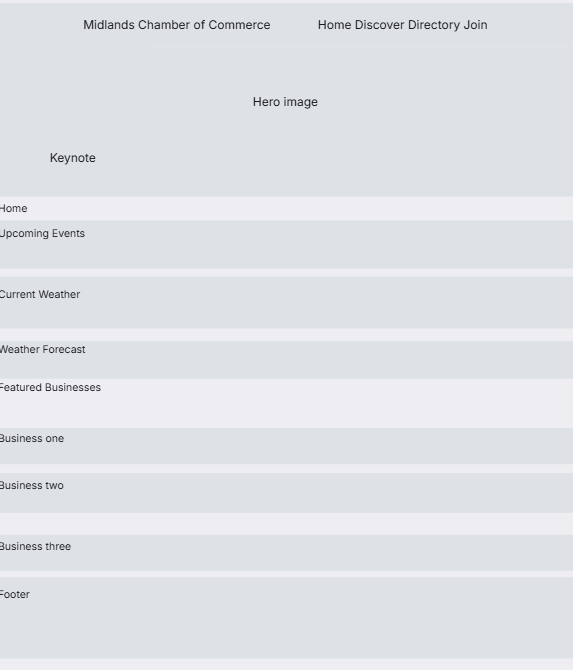
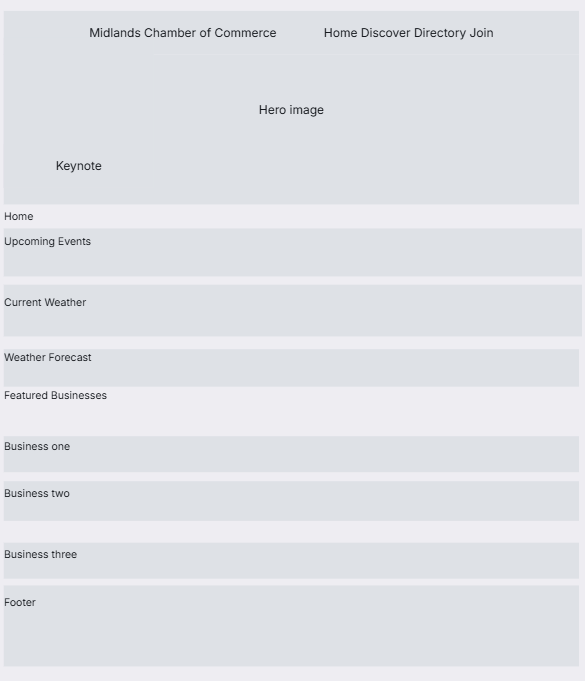
made some changes

diff --git a/project/siteplan.html b/project/siteplan.html
@@ -1,13 +1,17 @@
 <!DOCTYPE html>
 <html lang="en">
 <head>
-  <meta charset="UTF-8" />
-  <meta name="viewport" content="width=device-width, initial-scale=1.0" />
+  <meta charset="UTF-8">
+  <meta name="viewport" content="width=device-width, initial-scale=1.0" >
+  <meta name="description" content="Siteplan document outlining how the webpage will look like.">
+    <meta name="author" content="Blessing Mpofu, student of WDD131 - Dynamic Web Fundamentals at BYU-Idaho">
   <title>Website Planning Document</title>
   <link rel="stylesheet" href="styles/normalize.css">
   <link rel="stylesheet" href="styles/siteplan-small.css" media="screen and (max-width: 600px)">
   <link rel="stylesheet" href="styles/siteplan.css" media="screen and (min-width: 601px)">
-  <link href="https://fonts.googleapis.com/css2?family=Montserrat:wght@700&family=Open+Sans&display=swap" rel="stylesheet" />
+  <link href="https://fonts.googleapis.com/css2?family=Montserrat:wght@700&family=Open+Sans&display=swap" rel="stylesheet">
+  <link rel="icon" href="../images/black-bull.ico">
+  <script src="../scripts/getdates.js" defer></script>
 </head>
 <body>
   <h1>WDD 131: Website Planning Document</h1>
@@ -63,5 +67,9 @@
       </div>
     </div>
   </section>
+  <footer>
+    <p>&copy; <span id="currentyear"></span> Blessing Mpofu, Siteplan Document</p>
+        <p id="lastmodified"></p>
+  </footer>
 </body>
 </html>

diff --git a/project/styles/siteplan-small.css b/project/styles/siteplan-small.css
@@ -1,4 +1,63 @@
-.wireframe{
-    display:list-item;
+:root {
+    --primary-color: #0a3d62;
+    --secondary-color: #3c6382;
+    --accent-color: #1b4f72;
+    --background-color: #f5f6fa;
+    --text-color: #2f3640;
+    --highlight-color: #d9d9ec;
+    --header-font: 'Montserrat', sans-serif;
+    --body-font: 'Open Sans', sans-serif;
+}
+
+body {
+    margin: 0;
+    position: relative;
+    overflow-x: hidden;
+    font-family: var(--body-font);
+    padding: 2rem;
+    background-color: var(--background-color);
+    color: var(--text-color);
+}
+
+h1, h2 {
+    color: var(--primary-color);
+    font-family: var(--header-font);
+}
+
+section {
+    margin-bottom: 2rem;
+    padding: 1rem;
+    background-color: var(--highlight-color);
+    border-left: 4px solid var(--primary-color);
+}
+
+.wireframe {
+    display: list-item;
     padding: 10px;
+}
+
+img {
+    max-width: 100%;
+    height: auto;
+    display: block;
+    margin: 0 auto;
+}
+
+.container {
+    display: flex;
+    flex-direction: column;
+    align-items: center;
+}
+ section {
+        padding: 0.5rem;
+    }
+
+    h1, h2 {
+        font-size: 1.5rem;
+    }
+footer{
+    background-color: var(--primary-color);
+    padding: 10px;
+    color: var(--background-color);
+    text-align: center;
 }

diff --git a/project/styles/siteplan.css b/project/styles/siteplan.css
@@ -40,3 +40,9 @@
       max-width: 100%;
       border: 2px solid var(--accent-color);
     }
+    footer{
+    background-color: var(--primary-color);
+    padding: 10px;
+    color: var(--background-color);
+    text-align: center;
+}
